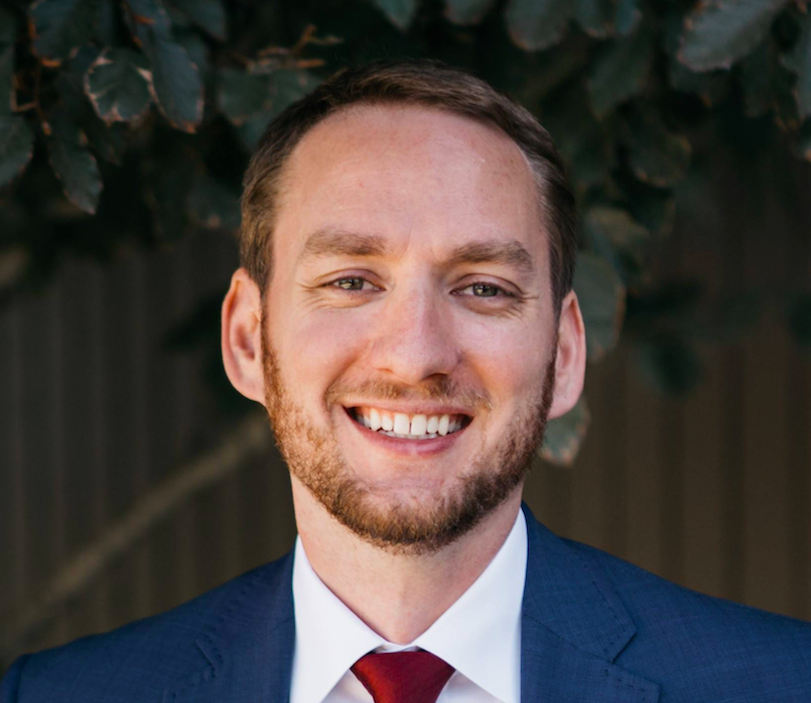
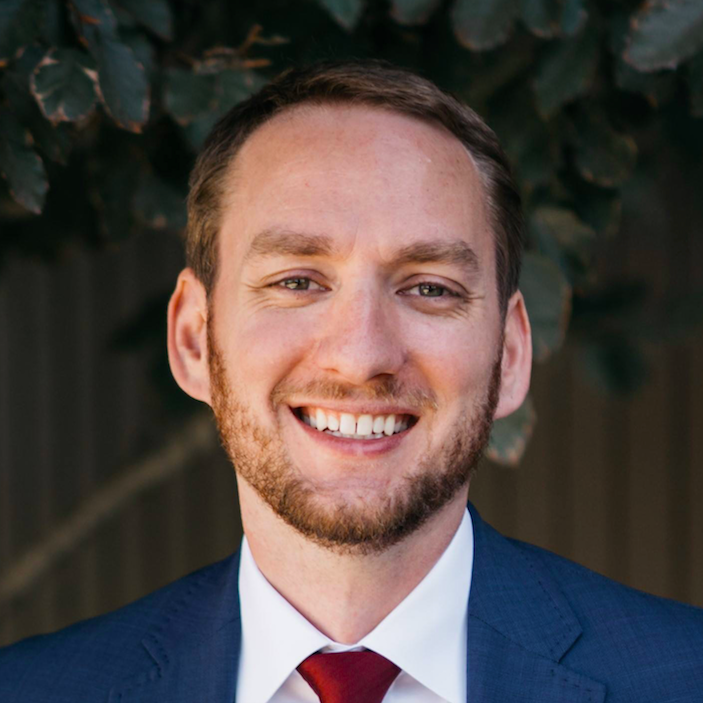
landing fixed images

diff --git a/clients/frontend/src/Landing.js b/clients/frontend/src/Landing.js
@@ -127,28 +127,28 @@ class App extends Component {
                 <div className="capstoneInfoSection theTeamCard">
                   <h2 className="capstoneInfoHeading"> Meet The Team </h2>
                   <div className="teamMember">
-                    <img className="teamMemberImage" alt="teamMemberImage" src={brendanKellog} />
+                    <img className="teamMemberImage" alt="Brendan Kellog - Backend Developer" src={brendanKellog} />
                     <p className="teamMemberName"> Brendan Kellog</p>
                     <p className="capstoneInfoContent"> Backend Developer</p>
-                    <p className="capstoneInfoContent"> email@goeshere.com</p>
+                    
                   </div>
                   <div className="teamMember">
-                    <img className="teamMemberImage" alt="teamMemberImage" src={rosemaryAdams} />
+                    <img className="teamMemberImage" alt="Rosemary Adams - Frontend Developer" src={rosemaryAdams} />
                     <p className="teamMemberName"> Rosemary Adams</p>
                     <p className="capstoneInfoContent"> Frontend Developer</p>
-                    <p className="capstoneInfoContent"> email@goeshere.com</p>
+                    
                   </div>
                   <div className="teamMember">
-                    <img className="teamMemberImage" alt="teamMemberImage" src={saniyaMazmanova} />
+                    <img className="teamMemberImage" alt="Saniya Mazmanova - UX/UI Designer" src={saniyaMazmanova} />
                     <p className="teamMemberName"> Saniya Mazmanova</p>
                     <p className="capstoneInfoContent"> UX/UI Designer</p>
-                    <p className="capstoneInfoContent"> email@goeshere.com</p>
+                    
                   </div>
                   <div className="teamMember">
-                    <img className="teamMemberImage" alt="teamMemberImage" src={nathanSwanson} />
+                    <img className="teamMemberImage" alt="Nathan Swanson - Project Manager" src={nathanSwanson} />
                     <p className="teamMemberName"> Nathan Swanson</p>
                     <p className="capstoneInfoContent"> Project Manager</p>
-                    <p className="capstoneInfoContent"> email@goeshere.com</p>
+                    
                   </div>
                 </div>
               </div>

diff --git a/clients/frontend/src/styling/Landing.css b/clients/frontend/src/styling/Landing.css
@@ -113,18 +113,19 @@
 
   /*TEAM MEMBERS*/
   .teamMember{
-      width: auto;
-      margin: 25px;
-      position: relative;
-      display: inline-block;
-      text-align: center;
+    width: calc(100% / 5);  
+    display: inline-block;
+    vertical-align: top;   
+    text-align:center;
+    margin:2%;    
+    padding:20px;
   }
 
   .teamMemberImage{
-      width: 180px;
-      height: 180px;
-      border-radius: 50%;
-      box-shadow: 0 4px 8px 0 rgba(0, 0, 0, 0.2), 0 6px 20px 0 rgba(0, 0, 0, 0.19);
+    max-width: 100%;
+    height: auto;
+    border-radius: 50%;
+    box-shadow: 0 4px 8px 0 rgba(0, 0, 0, 0.2), 0 6px 20px 0 rgba(0, 0, 0, 0.19);
   }
 
   .teamMemberName{
@@ -142,4 +143,16 @@
     .landingContent{
         display: block;
     }
+
+    .teamMember{  
+        width: 100%;
+        margin: 0;
+        display: block;
+    
+      }
+      .teamMemberImage{
+          height: 100%;
+          width: 100%;
+      }
+    
   }
